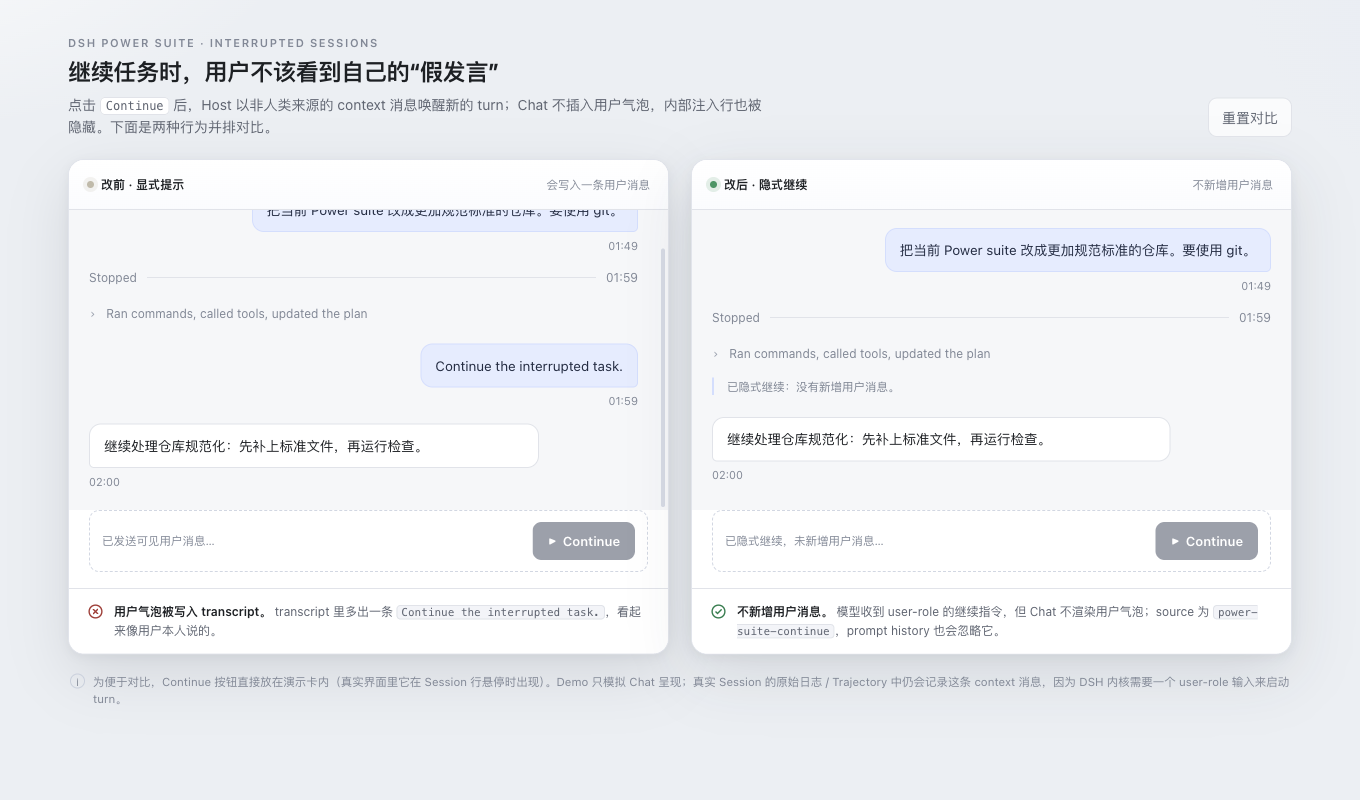
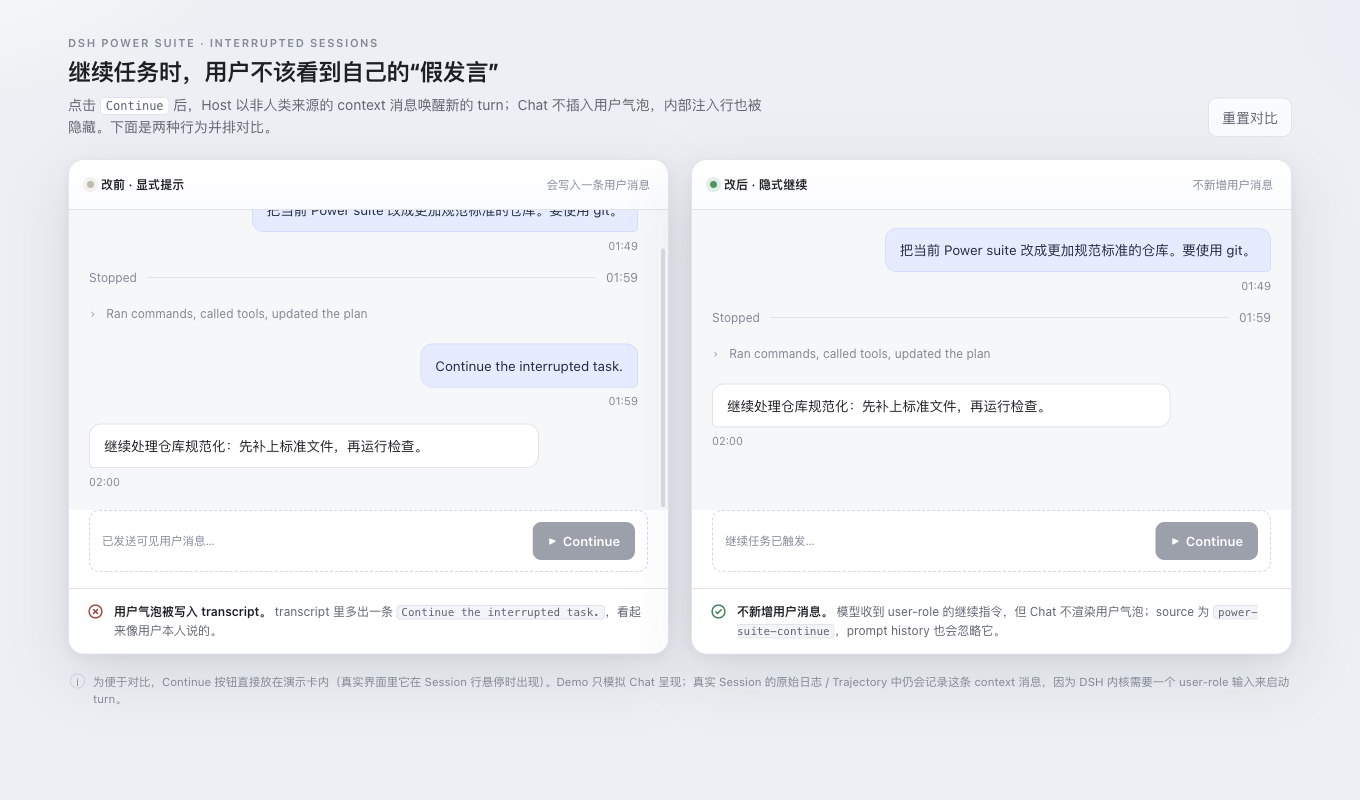
docs: remove the in-chat annotation from the implicit continue demo

Changed region(s): [[0.525, 0.4688, 0.7721, 0.5625], [0.525, 0.6562, 0.6485, 0.6875]]

diff --git a/docs/demo/implicit-continue.html b/docs/demo/implicit-continue.html
@@ -151,7 +151,6 @@
         <div class="stopped"><span>Stopped</span><span class="line"></span><span>01:59</span></div>
         <div class="runrow"><span class="arrow">›</span><span>Ran commands, called tools, updated the plan</span></div>
         <div class="continuation-marker" id="marker-after"><span class="spin"></span><span>继续任务中…</span></div>
-        <div class="callout show" id="callout-after">这里没有用户气泡：继续动作只产生一条隐藏的 context 消息。</div>
         <div class="spacer"></div>
       </div>
       <div class="continue-wrap" id="actions-after">
@@ -207,14 +206,13 @@
     const button = document.getElementById('continue-after');
     if (button.disabled) return;
     button.disabled = true;
-    document.getElementById('actions-after').querySelector('.hint').textContent = '已隐式继续，未新增用户消息…';
+    document.getElementById('actions-after').querySelector('.hint').textContent = '继续任务已触发…';
     const marker = document.getElementById('marker-after');
     marker.classList.add('show');
     await wait(320);
     await wait(380);
     marker.classList.remove('show');
     addMessage(card, 'assistant', '继续处理仓库规范化：先补上标准文件，再运行检查。', '02:00');
-    document.getElementById('callout-after').textContent = '已隐式继续：没有新增用户消息。';
   }
 
   document.getElementById('continue-before').addEventListener('click', runBefore);
